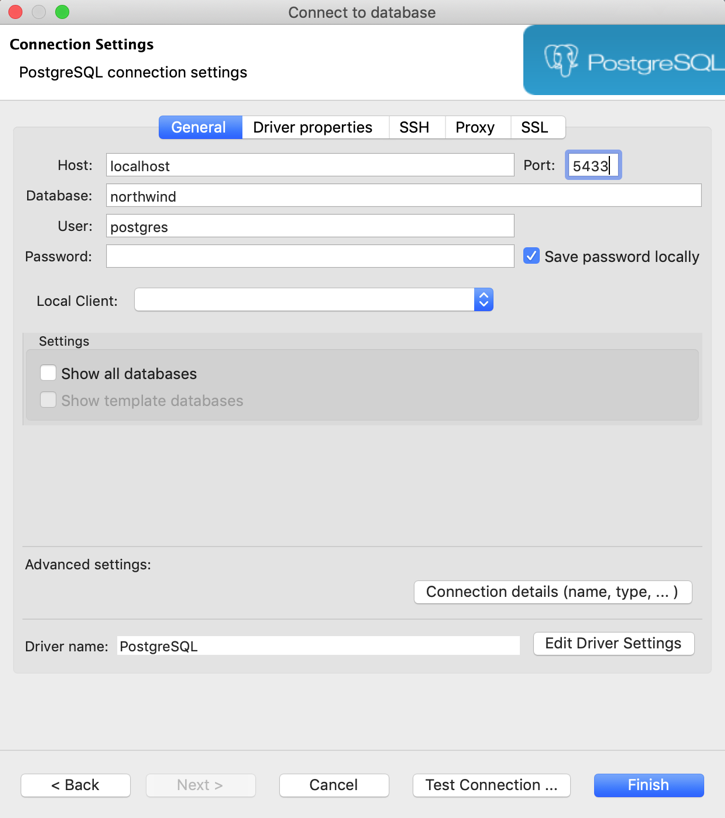
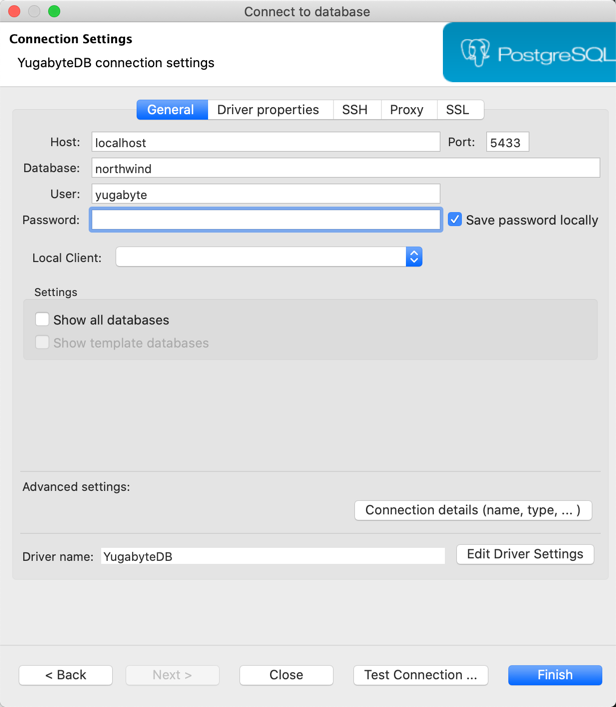
Update tools and sample dbs

diff --git a/docs/content/latest/tools/dbeaver.md b/docs/content/latest/tools/dbeaver.md
@@ -23,9 +23,11 @@ The [DBeaver Community Edition](https://dbeaver.io/) includes these features:
 
 The [DBeaver Enterprise Edition](https://dbeaver.com/) adds support for non-JDBC data sources, including MongoDB, Cassandra, and Redis.
 
+![DBeaver application](/images/develop/tools/dbeaver/dbeaver-screenshot.png)
+
 ## Before you begin
 
-To use DBeaver with YugabyteDB, you need to meet the following prerequisites.
+Before getting started with DBeaver, make sure you meet the following prerequisites.
 
 ### YugabyteDB
 
@@ -39,33 +41,41 @@ JDK and JRE installers for Linux, macOS, and Windows can be downloaded from [Ope
 
 ### PostgreSQL JDBC driver
 
-The PostgreSQL JDBC driver can be used with DBeaver to work with YugabyteDB databases. 
+The [PostgreSQL JDBC driver](https://jdbc.postgresql.org/) can be used with DBeaver to work with YugabyteDB databases. 
 
 To connect DBeaver to a YugabyteDB cluster, you need the PostgreSQL JDBC driver installed. To download the current version that supports Java 8 or later, go to the [PostgreSQL JDBC Driver download](https://jdbc.postgresql.org/download.html) page.
 
 ## Install DBeaver
 
-Follow the steps here to download, install, and configure DBeaver to work with YugabyteDB.
-
 1. Download the distribution package for the operating system on your client computer from the [DBeaver downloads page](https://dbeaver.io/download/).
 2. Install DBeaver following the steps on the [DBeaver Installation page](https://github.com/dbeaver/dbeaver/wiki/Installation).
 
-## Configure DBeaver for YugabyteDB
+## Configure DBeaver
 
-### Configure the PostgreSQL driver to use with YugabyteDB
+### Configure the JDBC driver
 
 1. Start the DBeaver application. The DBeaver application window appears.
 2. On the menu, select **Database > Driver Manager**. The **Driver Manager** window appears.
-3. Select **PostgreSQL** and then click **Copy**. The **Create new driver** window appears with a copy of the PostgreSQL driver settings.
-4. Make the following changes in the Settings:
 
-    - **DriverName**: `YugabyteDB`
+![Driver Manager](/images/develop/tools/dbeaver/dbeaver-driver-manager.png)
+
+3. Select **PostgreSQL** and then click **Copy**. The **Create new driver** window appears with a copy of the default PostgreSQL driver settings.
+
+![Create new driver](/images/develop/tools/dbeaver/dbeaver-create-new-driver.png)
+
+4. Make the following changes in the **Settings**:
+
+    - **DriverName**: `YugabyteDB` — Default name is "PostgreSQL", but using "YugabyteDB" might help you not confuse this driver's settings with PostgreSQL connections using the PostgreSQL port of `5432`.
     - **Driver Type**: `PostgreSQL` (selected)
     - **Class Name**: `org.postgresql.Driver`
     - **URL Template**: `jdbc.postgresql://{host}[:{port}/[{database}]` (read-only)
-    - **Default Port**: `5433`
+    - **Default Port**: `5433` (Default is `5432`)
 
-5. Click the **Libraries** tab.
+5. In the **Libraries** tab, select the PostgreSQL JDBC driver JAR file to be used.
+
+
+
+
 
 ### Create a YugabyteDB connection profile
 

diff --git a/docs/content/latest/sample-data/chinook.md b/docs/content/latest/sample-data/chinook.md
@@ -31,13 +31,11 @@ For details, here's the entity relationship diagram of the Chinook data model.
 
 ![Chinook ER diagram](/images/sample-data/chinook/chinook-er-diagram.png)
 
-## Install the Chinook database
-
-Follow the steps here to download and install the Chinook sample database.
-
-### Before you begin
+## Before you begin
 
 To install and use the Chinook sample database, you need to have installed and configured YugabyteDB. To get up and running quickly, see [Quick Start](/latest/quick-start/).
+
+Install the Chinook sample database
 
 ### 1. Download the SQL scripts
 
@@ -84,7 +82,7 @@ chinook=#
 To build the tables and database objects, run the following `\i` command.
 
 ```
-chinook=# \i /Users/yugabyte/chinook_ddl.sql
+chinook=# \i /Users/yugabyte/yugabytedb/share/chinook_ddl.sql
 ```
 
 You can verify that all 14 tables have been created by running the `\d` command.
@@ -100,13 +98,13 @@ To load the `chinook` database with sample data, you need to run the SQL scripts
 First, run the SQL script to load the genres, artists, and albums.
 
 ```
-chinook=# \i /Users/yugabyte/chinook_genres_artists_albums.sql
+chinook=# \i /Users/yugabyte/yugabytedb/share/chinook_genres_artists_albums.sql
 ```
 
 Next, run the SQL script to load the songs.
 
 ```
-chinook=# \i /Users/yugabyte/chinook_songs.sql
+chinook=# \i /Users/yugabyte/yugabytedb/share/chinook_songs.sql
 ```
 
 Now verify that you have data by running a simple `SELECT` statement to pull some data from the `Track` table.

diff --git a/docs/content/latest/sample-data/northwind.md b/docs/content/latest/sample-data/northwind.md
@@ -57,7 +57,7 @@ yugabyte=#
 
 ### 3. Create the Northwind database
 
-To create the Northwind database, run the following CREATE DATABASE command.
+To create the Northwind database, run the following `CREATE DATABASE` statement.
 
 ```sql
 CREATE DATABASE northwind;
@@ -84,7 +84,7 @@ northwind=#
 To build the tables and database objects, execute the `northwind_ddl.sql` SQL script.
 
 ```
-northwind=# \i /Users/yugabyte/northwind_ddl.sql
+northwind=# \i /Users/yugabyte/yugabytedb/share/northwind_ddl.sql
 ```
 
 You can verify that all 14 tables have been created by running the `\d` command.
@@ -100,7 +100,7 @@ northwind=# \d
 To load the `northwind` database with sample data, run the `\i` command to execute commands in the `northwind_data.sql` file.
 
 ```
-northwind=# \i /Users/yugabyte/northwind_data.sql
+northwind=# \i /Users/yugabyte/yugabytedb/share/northwind_data.sql
 ```
 
 To verify that you have some data to work with, you can run a simple SELECT statement to pull data from the `customers` table.

diff --git a/docs/content/latest/sample-data/pgexercises.md b/docs/content/latest/sample-data/pgexercises.md
@@ -80,7 +80,7 @@ exercises=#
 To build the tables and database objects, run the `\i` command.
 
 ```
-exercises=# \i /Users/yugabyte/clubdata_ddl.sql
+exercises=# \i /Users/yugabyte/yugabytedb/share/clubdata_ddl.sql
 ```
 
 You can verify that all three tables have been created by running the `\d` command.
@@ -94,7 +94,7 @@ exercises=# \d
 To load the `exercises` database with sample data, run the following command to execute commands in the file.
 
 ```
-exercises=# \i /Users/yugabyte/clubdata_data.sql
+exercises=# \i /Users/yugabyte/yugabytedb/share/clubdata_data.sql
 ```
 
 You can verify that you have data to work with by running the following `SELECT` statement to pull data from the `bookings` table.
